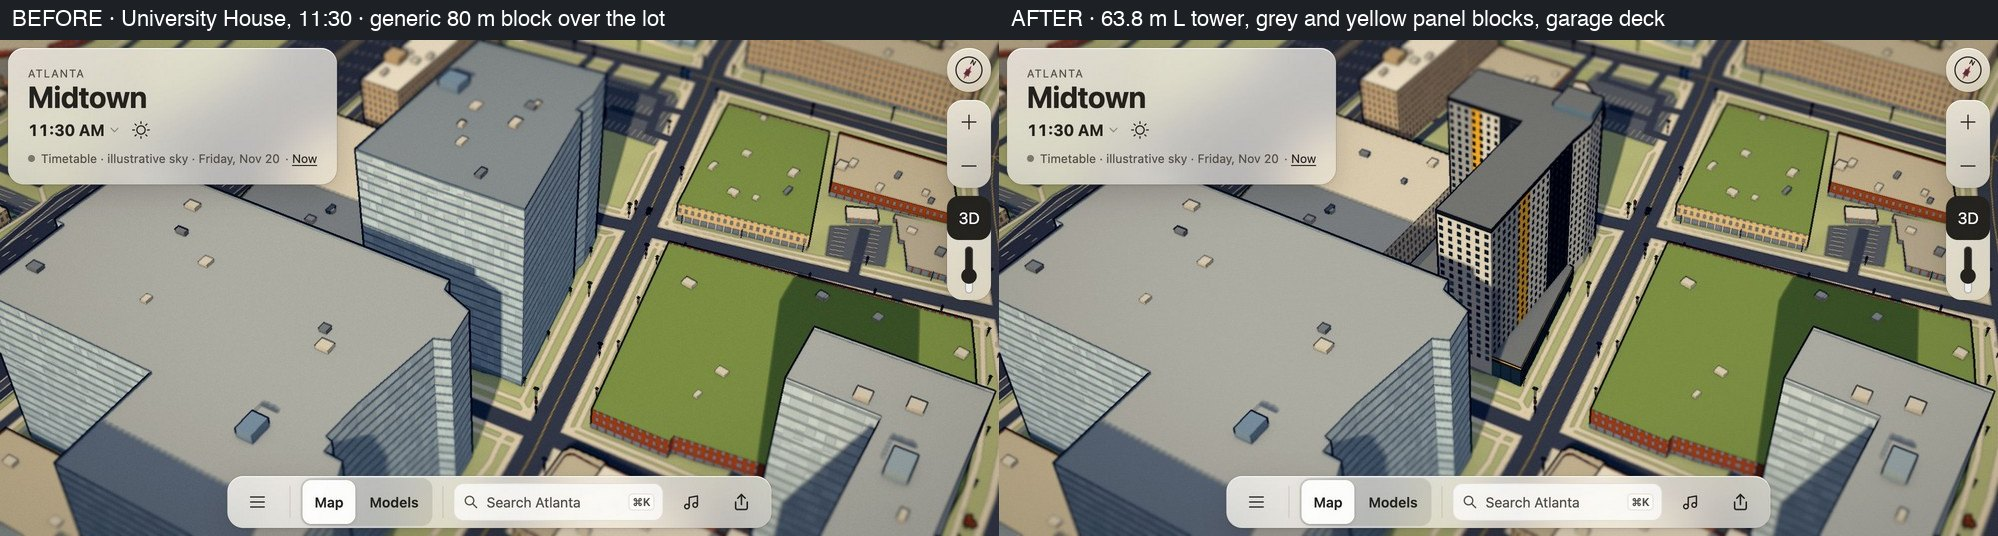
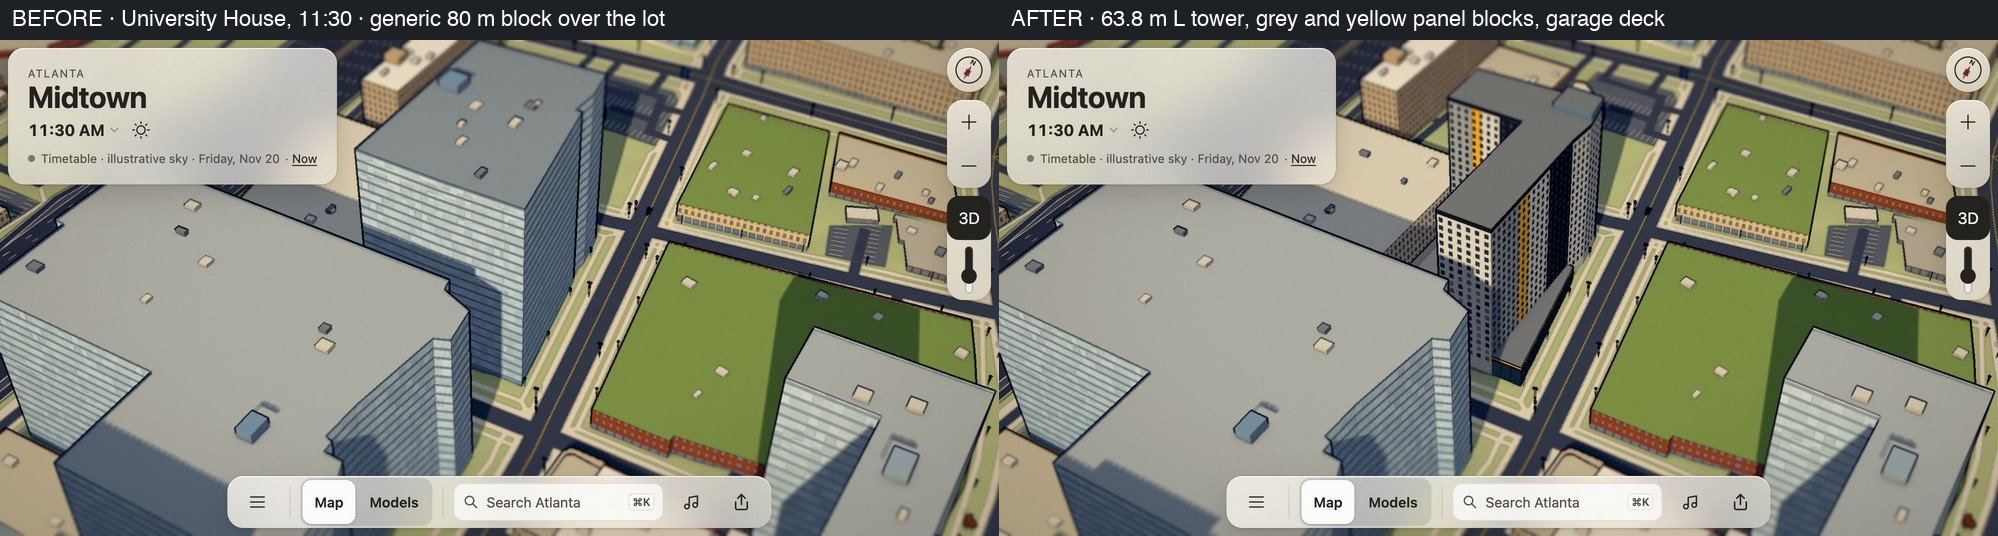
Lift University House's punched windows to the provisional glass floor
Window glass #4f5c69 (S 25%, V 41%) replaces #3a4652 (V 32%); re-shot the
day views.

Changed region(s): [[0.5275, 0.7761, 0.6517, 1.0], [0.4965, 0.9851, 0.5275, 1.0]]

diff --git a/web/src/city/university-house.ts b/web/src/city/university-house.ts
@@ -53,7 +53,7 @@ export function createUniversityHouse(buildings: VBuilding[], grid: GroundGrid, 
   if (!found) return null;
   const shell = found;
   const high = quality === 'high';
-  const windows = ['#3a4652', '#43505c', '#36414c'];
+  const windows = ['#4f5c69', '#56636f', '#4a5866'];
   const t = local(tower);
 
   shell.prism(local(garage), shell.base, deckTop, '#c9c7c0', '#b3aea4');

diff --git a/docs/log/ui/university-house/README.md b/docs/log/ui/university-house/README.md
@@ -12,6 +12,7 @@
 
 The Midtown Alliance photograph, taken from the west across a cleared lot, shows the tower clad in vertical blocks of light grey, mid grey and charcoal panels with punched windows. Yellow-framed balcony strips run up two faces. A charcoal block with a glass-topped lounge stands at the corner, beside an open concrete garage with the amenity deck. The street base is charcoal with a yellow frame. [Midtown Alliance building page](https://midtownatl.com/view/university-house-midtown) · [Curbed Atlanta via Vineyard, on the 19-storey, 268-unit tower](https://vineyardestates.blogspot.com/2015/09/these-aint-your-daddys-dorms-via-curbed.html)
 
+- **Glass:** the punched-window base is `#4f5c69` (S 25%, V 41%), varied with `#56636f` (23/44) and `#4a5866` (27/40). This meets the provisional glass rules: V of at least 40% and S of at most 36%.
 - **Floors:** a 5 m lobby, then 18 floors at 3.3 m.
 - **Panel blocks:** each long face gets four vertical blocks in one of two light/yellow/mid/charcoal orders. Block widths are estimated from the photograph.
 - **High tier:** 3.2 m punched windows (0.42 × 0.55 of the bay), garage openings, the yellow trim over the base, and the corner glass lounge.
